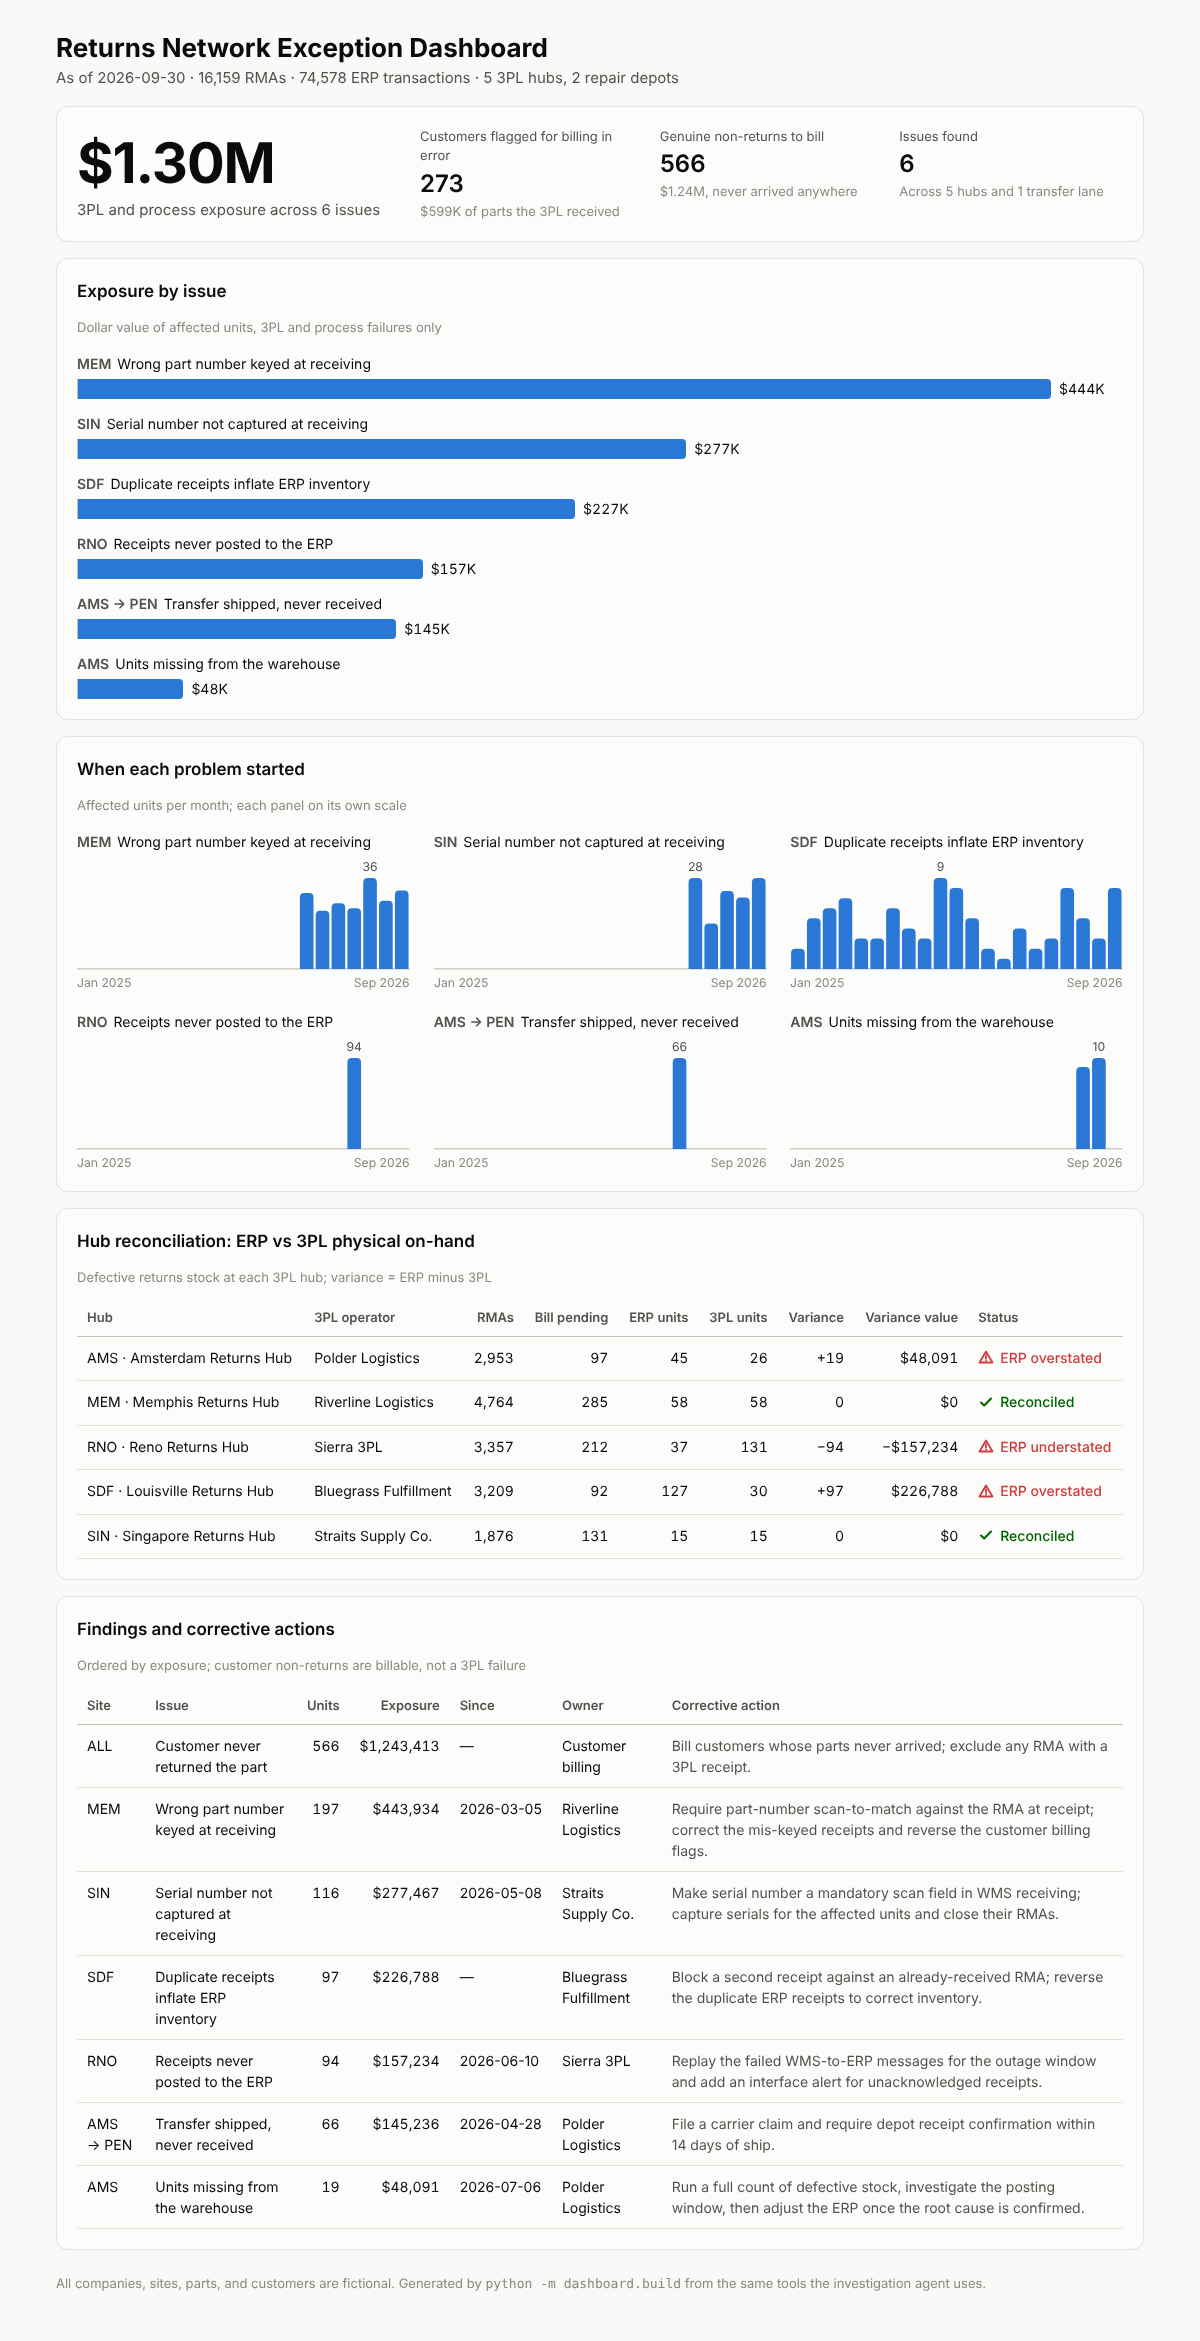
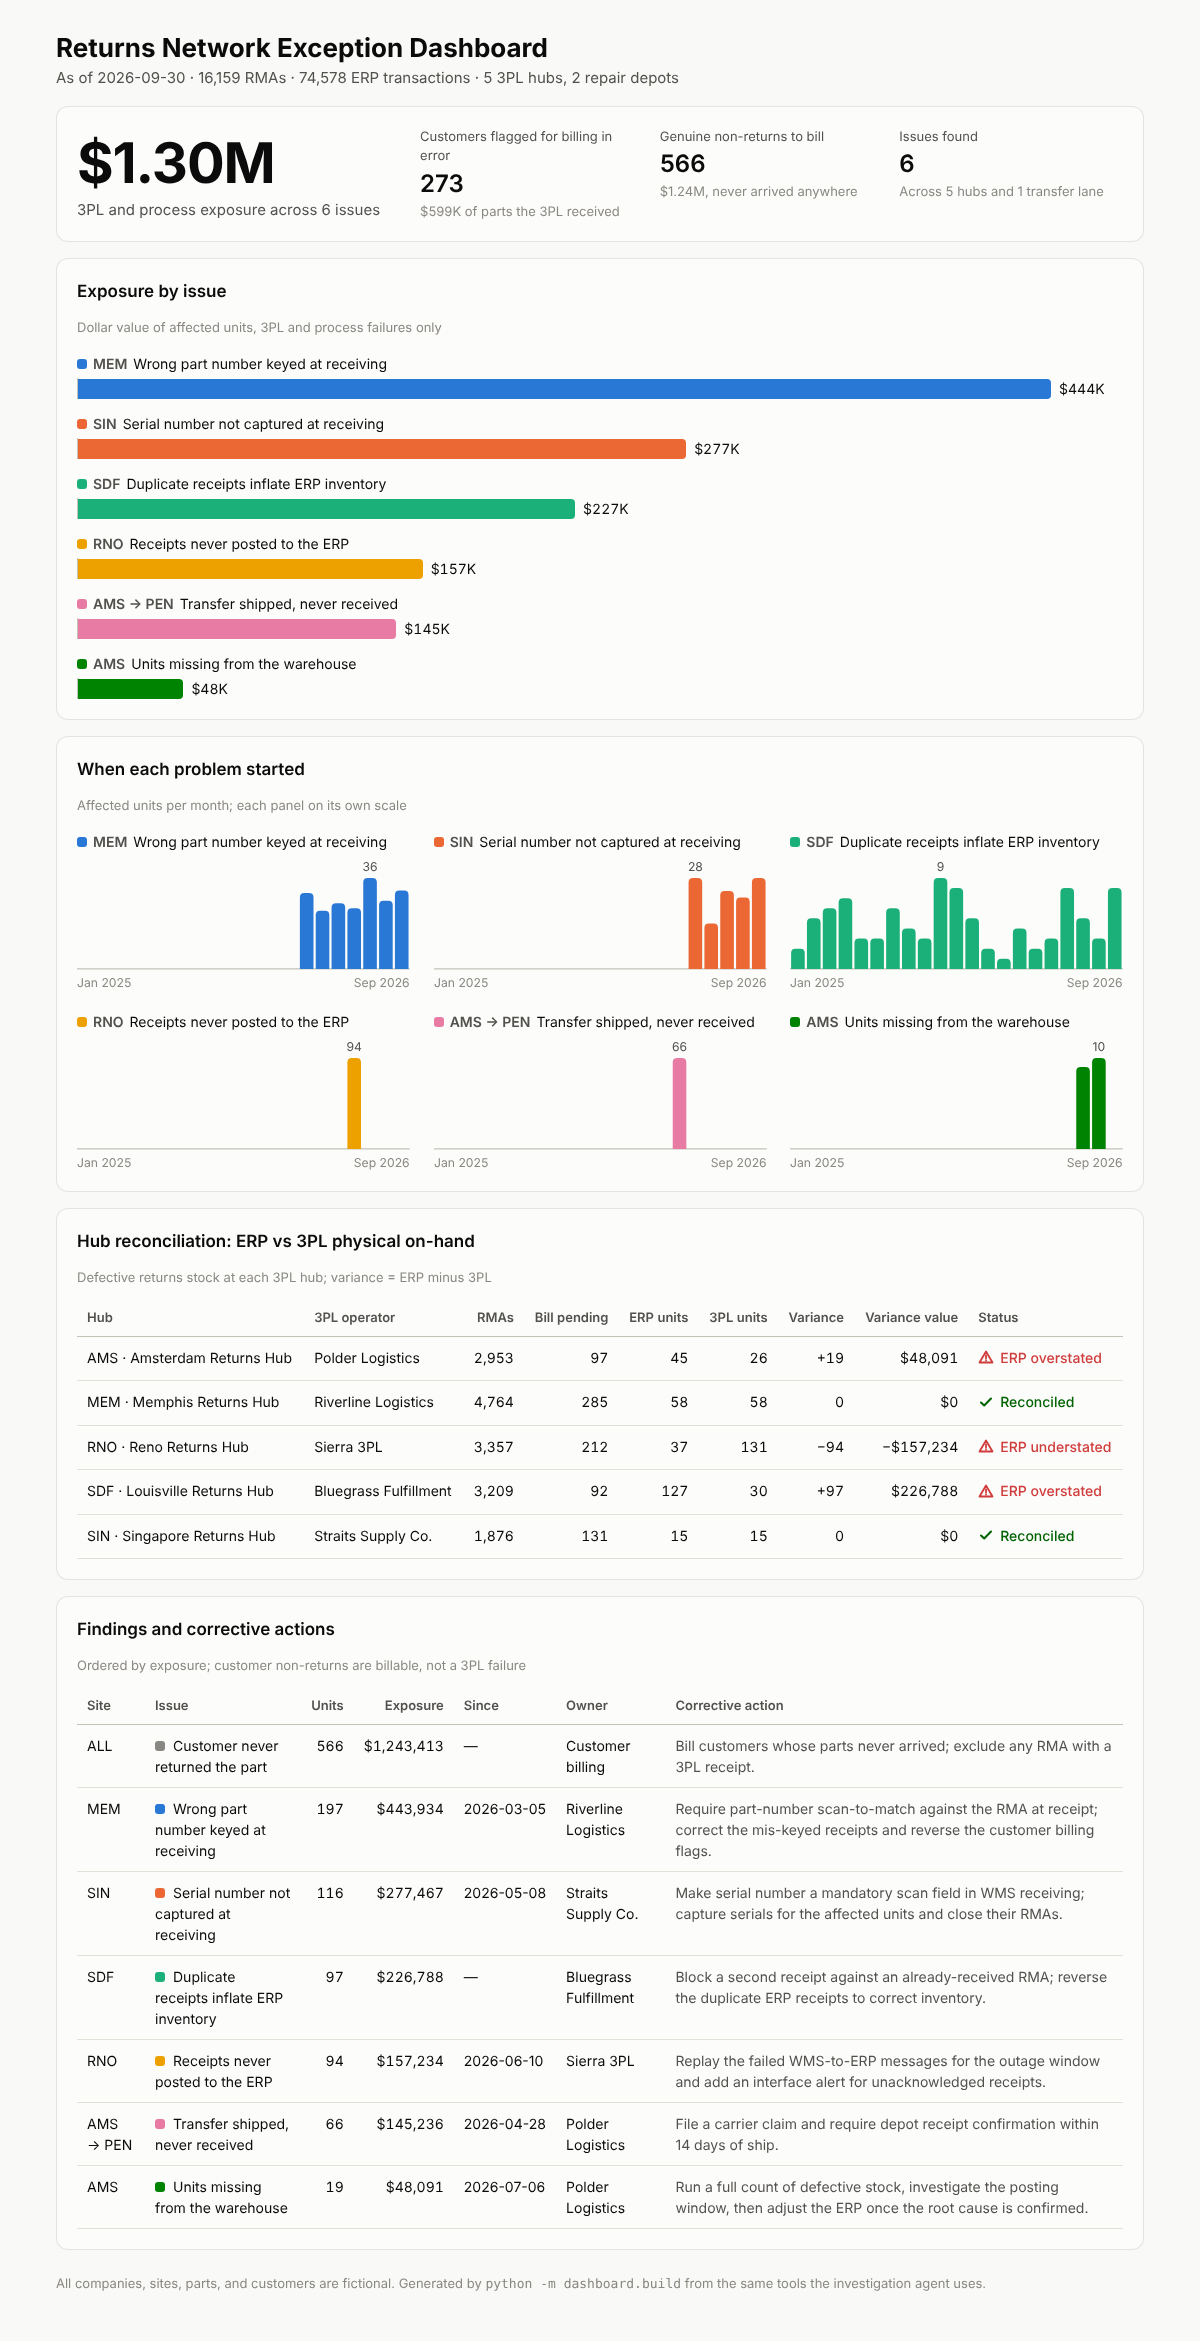
Color each issue consistently across the dashboard
Each issue keeps one validated categorical color in the bars, the monthly
panels, and the findings table, so it can be followed across views.

Claude-Session: https://claude.ai/code/session_01PHYQT53q2MmpX6cWdthDdQ

diff --git a/dashboard/index.html b/dashboard/index.html
@@ -30,6 +30,13 @@
   --good: #0ca30c;
   --good-text: #006300;
   --critical: #d03b3b;
+  --neutral: #898781;
+  --s1: #2a78d6;
+  --s2: #eb6834;
+  --s3: #1baf7a;
+  --s4: #eda100;
+  --s5: #e87ba4;
+  --s6: #008300;
 }
 @media (prefers-color-scheme: dark) {
   :root:where(:not([data-theme="light"])) {
@@ -46,6 +53,12 @@
     --series-1-hover: #5598e7;
     --track: #262624;
     --good-text: #0ca30c;
+    --s1: #3987e5;
+    --s2: #d95926;
+    --s3: #199e70;
+    --s4: #c98500;
+    --s5: #d55181;
+    --s6: #008300;
   }
 }
 :root[data-theme="dark"] {
@@ -62,6 +75,12 @@
   --series-1-hover: #5598e7;
   --track: #262624;
   --good-text: #0ca30c;
+  --s1: #3987e5;
+  --s2: #d95926;
+  --s3: #199e70;
+  --s4: #c98500;
+  --s5: #d55181;
+  --s6: #008300;
 }
 * { box-sizing: border-box; }
 body {
@@ -97,11 +116,11 @@ h2 { font-size: 17px; margin: 0 0 4px; font-weight: 600; }
 .bar-row { display: flex; align-items: center; gap: 8px; margin-top: 4px; }
 .bar {
   height: 20px; min-width: 3px;
-  background: var(--series-1);
+  background: var(--issue);
   border-radius: 0 4px 4px 0;
   cursor: default; outline-offset: 2px;
 }
-.bar:hover, .bar:focus-visible { background: var(--series-1-hover); }
+.bar:hover, .bar:focus-visible { filter: brightness(0.88); }
 .bar-value { font-size: 14px; color: var(--text-primary); white-space: nowrap; font-variant-numeric: tabular-nums; }
 .baseline { border-left: 1px solid var(--axis); padding-left: 0; }
 
@@ -112,8 +131,9 @@ h2 { font-size: 17px; margin: 0 0 4px; font-weight: 600; }
 .panel svg { width: 100%; height: auto; display: block; overflow: visible; }
 .panel svg text { fill: var(--text-muted); font-size: 11px; font-family: inherit; }
 .panel svg .peak { fill: var(--text-secondary); }
-.col { fill: var(--series-1); }
-.col:hover, .col:focus-visible { fill: var(--series-1-hover); outline: none; }
+.col { fill: var(--issue); }
+g:hover > .col, g:focus-visible > .col { filter: brightness(0.88); }
+g:focus-visible { outline: none; }
 .hit { fill: transparent; }
 
 /* Tables */
@@ -126,6 +146,8 @@ td.num, th.num { text-align: right; font-variant-numeric: tabular-nums; white-sp
 .status svg { flex: none; }
 .status.good { color: var(--good-text); }
 .status.critical { color: var(--critical); }
+.swatch { display: inline-block; width: 10px; height: 10px; border-radius: 3px; background: var(--issue); margin-right: 8px; vertical-align: baseline; }
+.panel-title .swatch, .bar-label .swatch { margin-right: 6px; }
 .action { color: var(--text-secondary); min-width: 260px; }
 .nowrap { white-space: nowrap; }
 
@@ -201,6 +223,16 @@ const moneyFull = v => `${v < 0 ? "−" : ""}$${Math.abs(Math.round(v)).toLocale
 const num = v => v.toLocaleString("en-US");
 const monthLabel = m => new Date(`${m}-01T00:00:00`).toLocaleString("en-US", { month: "short", year: "numeric" });
 const SVG = "http://www.w3.org/2000/svg";
+const ISSUE_COLOR = {
+  wrong_part_number: "var(--s1)", serial_not_captured: "var(--s2)", duplicate_receipts: "var(--s3)",
+  unposted_receipts: "var(--s4)", lost_in_transit: "var(--s5)", missing_from_warehouse: "var(--s6)",
+  customer_non_return: "var(--neutral)",
+};
+function swatch(key) {
+  const s = el("span", { class: "swatch", "aria-hidden": "true" });
+  s.style.setProperty("--issue", ISSUE_COLOR[key]);
+  return s;
+}
 
 function el(tag, attrs = {}, text) {
   const node = document.createElement(tag);
@@ -263,9 +295,10 @@ const bars = document.getElementById("bars");
 for (const f of failures) {
   const row = el("div");
   const label = el("div", { class: "bar-label" });
-  label.append(el("span", { class: "site" }, f.site), document.createTextNode(f.issue));
+  label.append(swatch(f.key), el("span", { class: "site" }, f.site), document.createTextNode(f.issue));
   const track = el("div", { class: "bar-row baseline" });
   const bar = el("div", { class: "bar" });
+  bar.style.setProperty("--issue", ISSUE_COLOR[f.key]);
   bar.style.width = `calc((100% - 72px) * ${(f.value / maxValue).toFixed(4)})`;
   attachTip(bar, moneyFull(f.value), `${f.site} · ${num(f.units)} units`);
   track.append(bar, el("span", { class: "bar-value" }, money(f.value)));
@@ -280,8 +313,9 @@ const W = 300, H = 120, padTop = 18, bottom = 20, gap = 2;
 for (const f of failures) {
   const panel = el("div", { class: "panel" });
   const title = el("p", { class: "panel-title" });
-  title.append(el("span", { class: "site" }, f.site), document.createTextNode(f.issue));
+  title.append(swatch(f.key), el("span", { class: "site" }, f.site), document.createTextNode(f.issue));
   const svg = svgEl("svg", { viewBox: `0 0 ${W} ${H}`, role: "img", "aria-label": `${f.issue} by month` });
+  svg.style.setProperty("--issue", ISSUE_COLOR[f.key]);
   const peak = Math.max(...f.monthly, 1);
   const slot = W / months.length;
   const cw = Math.min(24, slot - gap);
@@ -350,7 +384,7 @@ table("hubs",
 
 table("actions",
   [["Site"], ["Issue"], ["Units", "num"], ["Exposure", "num"], ["Since", "nowrap"], ["Owner"], ["Corrective action", "action"]],
-  DATA.findings.map(f => [f.site, f.issue, num(f.units), moneyFull(f.value), f.since || "—", f.owner, f.action]));
+  DATA.findings.map(f => [f.site, (() => { const c = el("span"); c.append(swatch(f.key), document.createTextNode(f.issue)); return c; })(), num(f.units), moneyFull(f.value), f.since || "—", f.owner, f.action]));
 </script>
 </body>
 </html>

diff --git a/dashboard/template.html b/dashboard/template.html
@@ -30,6 +30,13 @@
   --good: #0ca30c;
   --good-text: #006300;
   --critical: #d03b3b;
+  --neutral: #898781;
+  --s1: #2a78d6;
+  --s2: #eb6834;
+  --s3: #1baf7a;
+  --s4: #eda100;
+  --s5: #e87ba4;
+  --s6: #008300;
 }
 @media (prefers-color-scheme: dark) {
   :root:where(:not([data-theme="light"])) {
@@ -46,6 +53,12 @@
     --series-1-hover: #5598e7;
     --track: #262624;
     --good-text: #0ca30c;
+    --s1: #3987e5;
+    --s2: #d95926;
+    --s3: #199e70;
+    --s4: #c98500;
+    --s5: #d55181;
+    --s6: #008300;
   }
 }
 :root[data-theme="dark"] {
@@ -62,6 +75,12 @@
   --series-1-hover: #5598e7;
   --track: #262624;
   --good-text: #0ca30c;
+  --s1: #3987e5;
+  --s2: #d95926;
+  --s3: #199e70;
+  --s4: #c98500;
+  --s5: #d55181;
+  --s6: #008300;
 }
 * { box-sizing: border-box; }
 body {
@@ -97,11 +116,11 @@ h2 { font-size: 17px; margin: 0 0 4px; font-weight: 600; }
 .bar-row { display: flex; align-items: center; gap: 8px; margin-top: 4px; }
 .bar {
   height: 20px; min-width: 3px;
-  background: var(--series-1);
+  background: var(--issue);
   border-radius: 0 4px 4px 0;
   cursor: default; outline-offset: 2px;
 }
-.bar:hover, .bar:focus-visible { background: var(--series-1-hover); }
+.bar:hover, .bar:focus-visible { filter: brightness(0.88); }
 .bar-value { font-size: 14px; color: var(--text-primary); white-space: nowrap; font-variant-numeric: tabular-nums; }
 .baseline { border-left: 1px solid var(--axis); padding-left: 0; }
 
@@ -112,8 +131,9 @@ h2 { font-size: 17px; margin: 0 0 4px; font-weight: 600; }
 .panel svg { width: 100%; height: auto; display: block; overflow: visible; }
 .panel svg text { fill: var(--text-muted); font-size: 11px; font-family: inherit; }
 .panel svg .peak { fill: var(--text-secondary); }
-.col { fill: var(--series-1); }
-.col:hover, .col:focus-visible { fill: var(--series-1-hover); outline: none; }
+.col { fill: var(--issue); }
+g:hover > .col, g:focus-visible > .col { filter: brightness(0.88); }
+g:focus-visible { outline: none; }
 .hit { fill: transparent; }
 
 /* Tables */
@@ -126,6 +146,8 @@ td.num, th.num { text-align: right; font-variant-numeric: tabular-nums; white-sp
 .status svg { flex: none; }
 .status.good { color: var(--good-text); }
 .status.critical { color: var(--critical); }
+.swatch { display: inline-block; width: 10px; height: 10px; border-radius: 3px; background: var(--issue); margin-right: 8px; vertical-align: baseline; }
+.panel-title .swatch, .bar-label .swatch { margin-right: 6px; }
 .action { color: var(--text-secondary); min-width: 260px; }
 .nowrap { white-space: nowrap; }
 
@@ -201,6 +223,16 @@ const moneyFull = v => `${v < 0 ? "−" : ""}$${Math.abs(Math.round(v)).toLocale
 const num = v => v.toLocaleString("en-US");
 const monthLabel = m => new Date(`${m}-01T00:00:00`).toLocaleString("en-US", { month: "short", year: "numeric" });
 const SVG = "http://www.w3.org/2000/svg";
+const ISSUE_COLOR = {
+  wrong_part_number: "var(--s1)", serial_not_captured: "var(--s2)", duplicate_receipts: "var(--s3)",
+  unposted_receipts: "var(--s4)", lost_in_transit: "var(--s5)", missing_from_warehouse: "var(--s6)",
+  customer_non_return: "var(--neutral)",
+};
+function swatch(key) {
+  const s = el("span", { class: "swatch", "aria-hidden": "true" });
+  s.style.setProperty("--issue", ISSUE_COLOR[key]);
+  return s;
+}
 
 function el(tag, attrs = {}, text) {
   const node = document.createElement(tag);
@@ -263,9 +295,10 @@ const bars = document.getElementById("bars");
 for (const f of failures) {
   const row = el("div");
   const label = el("div", { class: "bar-label" });
-  label.append(el("span", { class: "site" }, f.site), document.createTextNode(f.issue));
+  label.append(swatch(f.key), el("span", { class: "site" }, f.site), document.createTextNode(f.issue));
   const track = el("div", { class: "bar-row baseline" });
   const bar = el("div", { class: "bar" });
+  bar.style.setProperty("--issue", ISSUE_COLOR[f.key]);
   bar.style.width = `calc((100% - 72px) * ${(f.value / maxValue).toFixed(4)})`;
   attachTip(bar, moneyFull(f.value), `${f.site} · ${num(f.units)} units`);
   track.append(bar, el("span", { class: "bar-value" }, money(f.value)));
@@ -280,8 +313,9 @@ const W = 300, H = 120, padTop = 18, bottom = 20, gap = 2;
 for (const f of failures) {
   const panel = el("div", { class: "panel" });
   const title = el("p", { class: "panel-title" });
-  title.append(el("span", { class: "site" }, f.site), document.createTextNode(f.issue));
+  title.append(swatch(f.key), el("span", { class: "site" }, f.site), document.createTextNode(f.issue));
   const svg = svgEl("svg", { viewBox: `0 0 ${W} ${H}`, role: "img", "aria-label": `${f.issue} by month` });
+  svg.style.setProperty("--issue", ISSUE_COLOR[f.key]);
   const peak = Math.max(...f.monthly, 1);
   const slot = W / months.length;
   const cw = Math.min(24, slot - gap);
@@ -350,7 +384,7 @@ table("hubs",
 
 table("actions",
   [["Site"], ["Issue"], ["Units", "num"], ["Exposure", "num"], ["Since", "nowrap"], ["Owner"], ["Corrective action", "action"]],
-  DATA.findings.map(f => [f.site, f.issue, num(f.units), moneyFull(f.value), f.since || "—", f.owner, f.action]));
+  DATA.findings.map(f => [f.site, (() => { const c = el("span"); c.append(swatch(f.key), document.createTextNode(f.issue)); return c; })(), num(f.units), moneyFull(f.value), f.since || "—", f.owner, f.action]));
 </script>
 </body>
 </html>

diff --git a/docs/index.html b/docs/index.html
@@ -30,6 +30,13 @@
   --good: #0ca30c;
   --good-text: #006300;
   --critical: #d03b3b;
+  --neutral: #898781;
+  --s1: #2a78d6;
+  --s2: #eb6834;
+  --s3: #1baf7a;
+  --s4: #eda100;
+  --s5: #e87ba4;
+  --s6: #008300;
 }
 @media (prefers-color-scheme: dark) {
   :root:where(:not([data-theme="light"])) {
@@ -46,6 +53,12 @@
     --series-1-hover: #5598e7;
     --track: #262624;
     --good-text: #0ca30c;
+    --s1: #3987e5;
+    --s2: #d95926;
+    --s3: #199e70;
+    --s4: #c98500;
+    --s5: #d55181;
+    --s6: #008300;
   }
 }
 :root[data-theme="dark"] {
@@ -62,6 +75,12 @@
   --series-1-hover: #5598e7;
   --track: #262624;
   --good-text: #0ca30c;
+  --s1: #3987e5;
+  --s2: #d95926;
+  --s3: #199e70;
+  --s4: #c98500;
+  --s5: #d55181;
+  --s6: #008300;
 }
 * { box-sizing: border-box; }
 body {
@@ -97,11 +116,11 @@ h2 { font-size: 17px; margin: 0 0 4px; font-weight: 600; }
 .bar-row { display: flex; align-items: center; gap: 8px; margin-top: 4px; }
 .bar {
   height: 20px; min-width: 3px;
-  background: var(--series-1);
+  background: var(--issue);
   border-radius: 0 4px 4px 0;
   cursor: default; outline-offset: 2px;
 }
-.bar:hover, .bar:focus-visible { background: var(--series-1-hover); }
+.bar:hover, .bar:focus-visible { filter: brightness(0.88); }
 .bar-value { font-size: 14px; color: var(--text-primary); white-space: nowrap; font-variant-numeric: tabular-nums; }
 .baseline { border-left: 1px solid var(--axis); padding-left: 0; }
 
@@ -112,8 +131,9 @@ h2 { font-size: 17px; margin: 0 0 4px; font-weight: 600; }
 .panel svg { width: 100%; height: auto; display: block; overflow: visible; }
 .panel svg text { fill: var(--text-muted); font-size: 11px; font-family: inherit; }
 .panel svg .peak { fill: var(--text-secondary); }
-.col { fill: var(--series-1); }
-.col:hover, .col:focus-visible { fill: var(--series-1-hover); outline: none; }
+.col { fill: var(--issue); }
+g:hover > .col, g:focus-visible > .col { filter: brightness(0.88); }
+g:focus-visible { outline: none; }
 .hit { fill: transparent; }
 
 /* Tables */
@@ -126,6 +146,8 @@ td.num, th.num { text-align: right; font-variant-numeric: tabular-nums; white-sp
 .status svg { flex: none; }
 .status.good { color: var(--good-text); }
 .status.critical { color: var(--critical); }
+.swatch { display: inline-block; width: 10px; height: 10px; border-radius: 3px; background: var(--issue); margin-right: 8px; vertical-align: baseline; }
+.panel-title .swatch, .bar-label .swatch { margin-right: 6px; }
 .action { color: var(--text-secondary); min-width: 260px; }
 .nowrap { white-space: nowrap; }
 
@@ -201,6 +223,16 @@ const moneyFull = v => `${v < 0 ? "−" : ""}$${Math.abs(Math.round(v)).toLocale
 const num = v => v.toLocaleString("en-US");
 const monthLabel = m => new Date(`${m}-01T00:00:00`).toLocaleString("en-US", { month: "short", year: "numeric" });
 const SVG = "http://www.w3.org/2000/svg";
+const ISSUE_COLOR = {
+  wrong_part_number: "var(--s1)", serial_not_captured: "var(--s2)", duplicate_receipts: "var(--s3)",
+  unposted_receipts: "var(--s4)", lost_in_transit: "var(--s5)", missing_from_warehouse: "var(--s6)",
+  customer_non_return: "var(--neutral)",
+};
+function swatch(key) {
+  const s = el("span", { class: "swatch", "aria-hidden": "true" });
+  s.style.setProperty("--issue", ISSUE_COLOR[key]);
+  return s;
+}
 
 function el(tag, attrs = {}, text) {
   const node = document.createElement(tag);
@@ -263,9 +295,10 @@ const bars = document.getElementById("bars");
 for (const f of failures) {
   const row = el("div");
   const label = el("div", { class: "bar-label" });
-  label.append(el("span", { class: "site" }, f.site), document.createTextNode(f.issue));
+  label.append(swatch(f.key), el("span", { class: "site" }, f.site), document.createTextNode(f.issue));
   const track = el("div", { class: "bar-row baseline" });
   const bar = el("div", { class: "bar" });
+  bar.style.setProperty("--issue", ISSUE_COLOR[f.key]);
   bar.style.width = `calc((100% - 72px) * ${(f.value / maxValue).toFixed(4)})`;
   attachTip(bar, moneyFull(f.value), `${f.site} · ${num(f.units)} units`);
   track.append(bar, el("span", { class: "bar-value" }, money(f.value)));
@@ -280,8 +313,9 @@ const W = 300, H = 120, padTop = 18, bottom = 20, gap = 2;
 for (const f of failures) {
   const panel = el("div", { class: "panel" });
   const title = el("p", { class: "panel-title" });
-  title.append(el("span", { class: "site" }, f.site), document.createTextNode(f.issue));
+  title.append(swatch(f.key), el("span", { class: "site" }, f.site), document.createTextNode(f.issue));
   const svg = svgEl("svg", { viewBox: `0 0 ${W} ${H}`, role: "img", "aria-label": `${f.issue} by month` });
+  svg.style.setProperty("--issue", ISSUE_COLOR[f.key]);
   const peak = Math.max(...f.monthly, 1);
   const slot = W / months.length;
   const cw = Math.min(24, slot - gap);
@@ -350,7 +384,7 @@ table("hubs",
 
 table("actions",
   [["Site"], ["Issue"], ["Units", "num"], ["Exposure", "num"], ["Since", "nowrap"], ["Owner"], ["Corrective action", "action"]],
-  DATA.findings.map(f => [f.site, f.issue, num(f.units), moneyFull(f.value), f.since || "—", f.owner, f.action]));
+  DATA.findings.map(f => [f.site, (() => { const c = el("span"); c.append(swatch(f.key), document.createTextNode(f.issue)); return c; })(), num(f.units), moneyFull(f.value), f.since || "—", f.owner, f.action]));
 </script>
 </body>
 </html>
